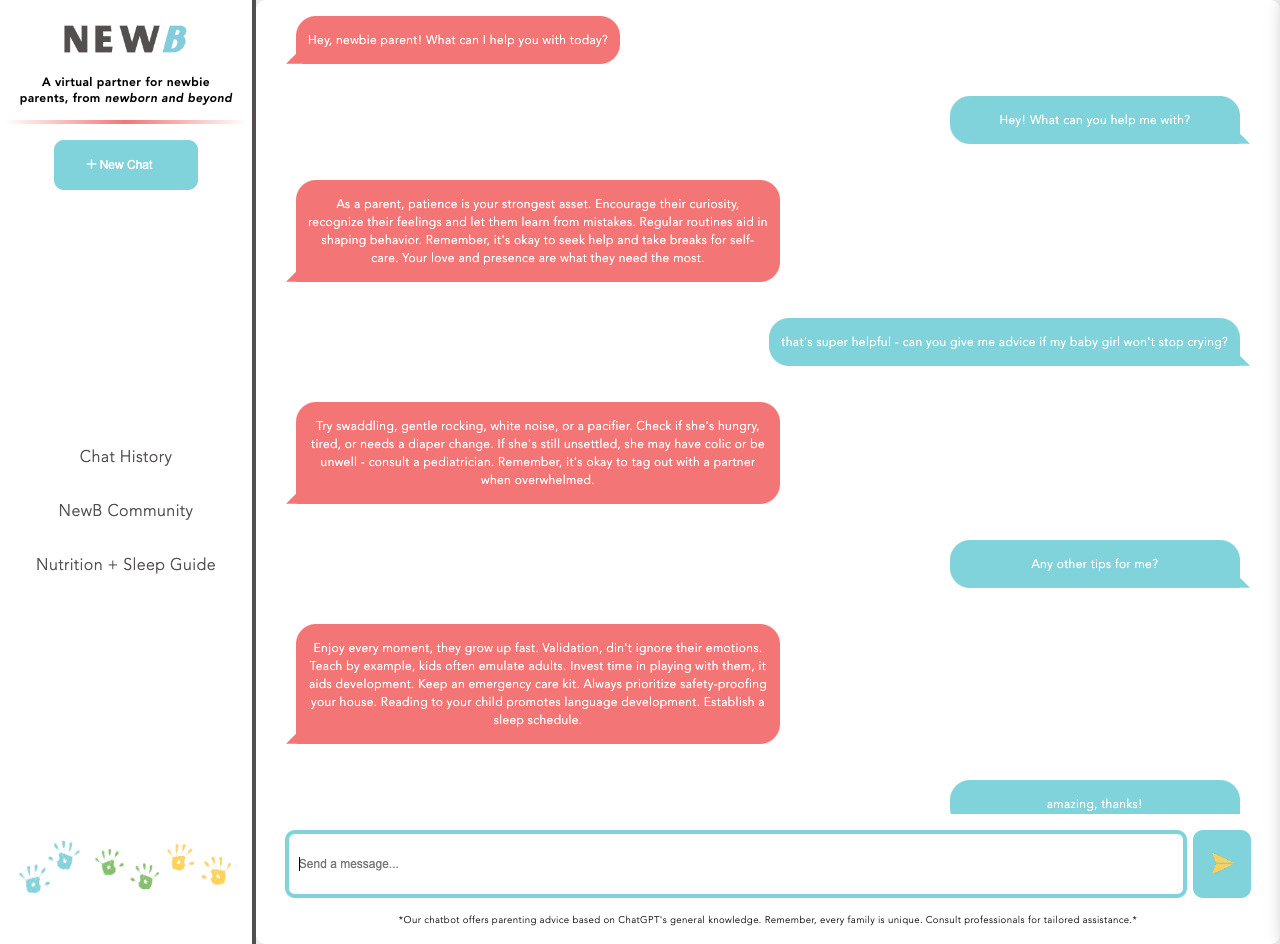
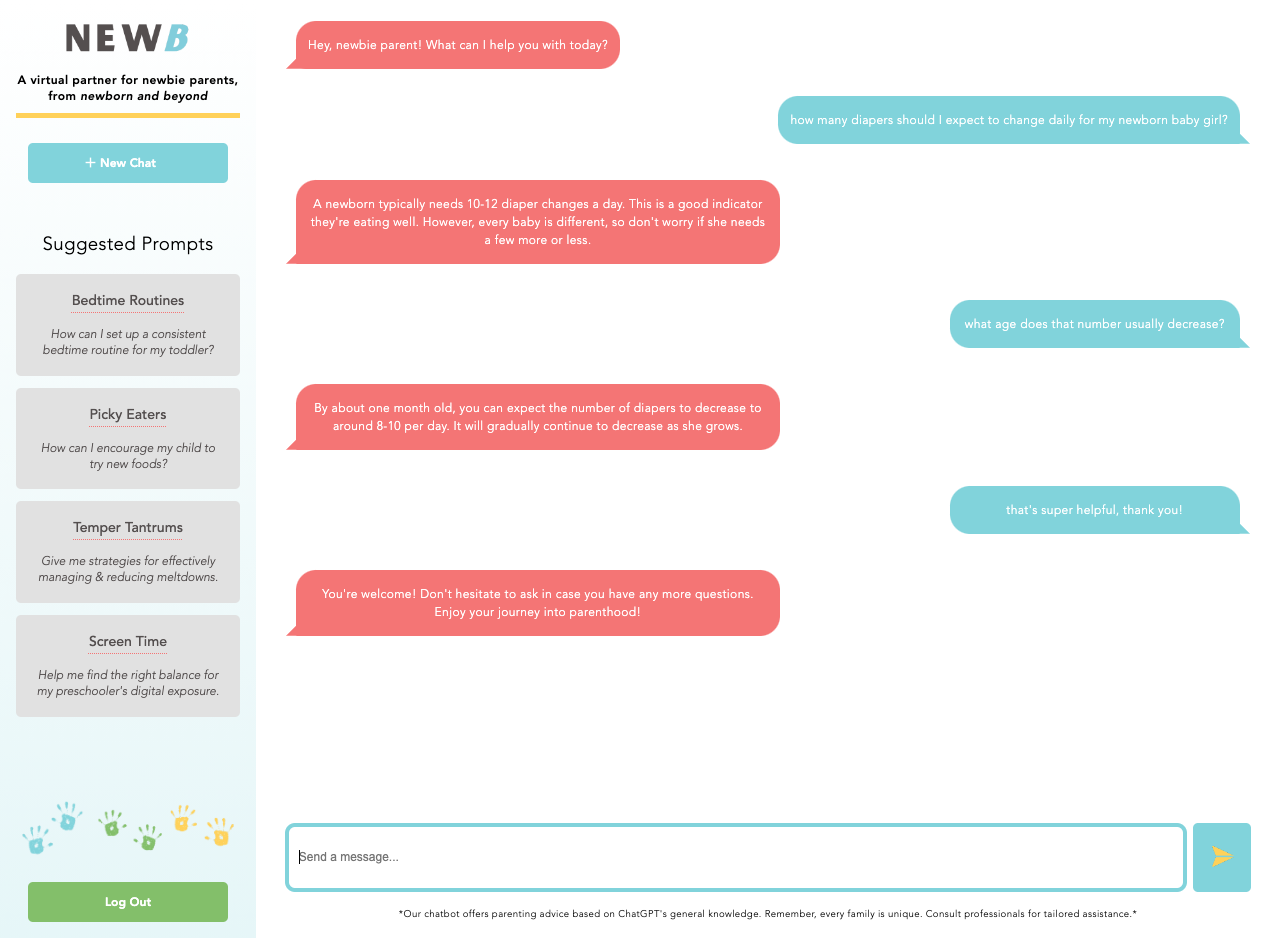
update newb screenshot and link to deployed site on vercel

diff --git a/index.html b/index.html
@@ -134,7 +134,7 @@
 
     <div class="portfolio">
       <!-- Portfolio item 01 -->
-      <a href="#" class="portfolio__item">
+      <a href="https://newb-chat.vercel.app/" class="portfolio__item">
         <img src="/portfolio-newb-v2.png" alt="" class="portfolio__img">
         <div class="overlay-details">
           <h5>NewB</h5>
